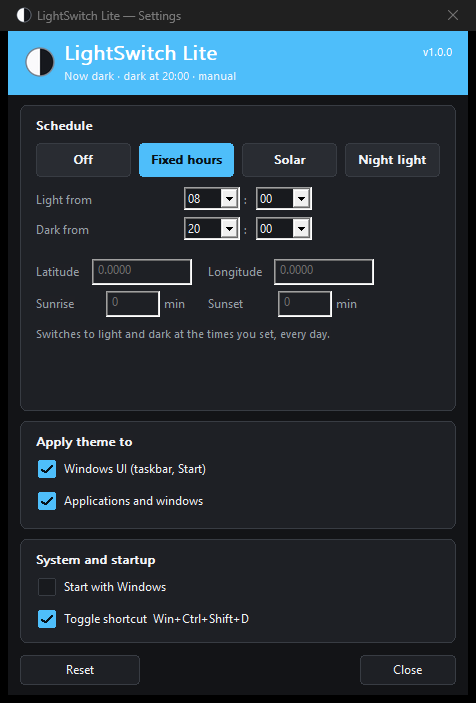
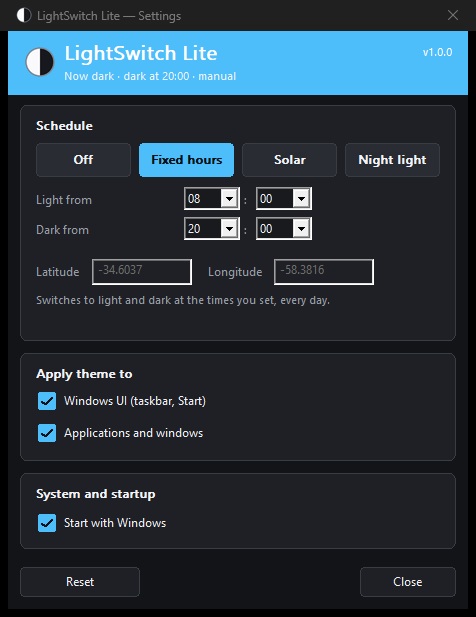
Limit the hour dropdowns to 00-23
Both hour and minute lists were filled with 60 entries, so the hour
selectors offered values like 45.

diff --git a/src/ui.cpp b/src/ui.cpp
@@ -780,14 +780,14 @@ namespace
         return control;
     }
 
-    HWND makeCombo(Ui* u, int id)
+    HWND makeCombo(Ui* u, int id, int count)
     {
         HWND combo = makeControl(u, L"COMBOBOX", nullptr, CBS_DROPDOWNLIST | WS_VSCROLL | WS_TABSTOP,
                                  WS_EX_CLIENTEDGE, id);
         if (!combo)
             return nullptr;
         wchar_t item[8];
-        for (int i = 0; i < 60; ++i)
+        for (int i = 0; i < count; ++i)
         {
             swprintf_s(item, L"%02d", i);
             SendMessageW(combo, CB_ADDSTRING, 0, reinterpret_cast<LPARAM>(item));
@@ -817,10 +817,10 @@ namespace
                                       BS_OWNERDRAW | WS_TABSTOP, 0, modes[i].id);
         }
 
-        u->hLightH = makeCombo(u, ID_LIGHT_H);
-        u->hLightM = makeCombo(u, ID_LIGHT_M);
-        u->hDarkH = makeCombo(u, ID_DARK_H);
-        u->hDarkM = makeCombo(u, ID_DARK_M);
+        u->hLightH = makeCombo(u, ID_LIGHT_H, 24);
+        u->hLightM = makeCombo(u, ID_LIGHT_M, 60);
+        u->hDarkH = makeCombo(u, ID_DARK_H, 24);
+        u->hDarkM = makeCombo(u, ID_DARK_M, 60);
 
         u->hLat = makeControl(u, L"EDIT", L"0", ES_AUTOHSCROLL | WS_TABSTOP, WS_EX_CLIENTEDGE, ID_LAT);
         u->hLon = makeControl(u, L"EDIT", L"0", ES_AUTOHSCROLL | WS_TABSTOP, WS_EX_CLIENTEDGE, ID_LON);
